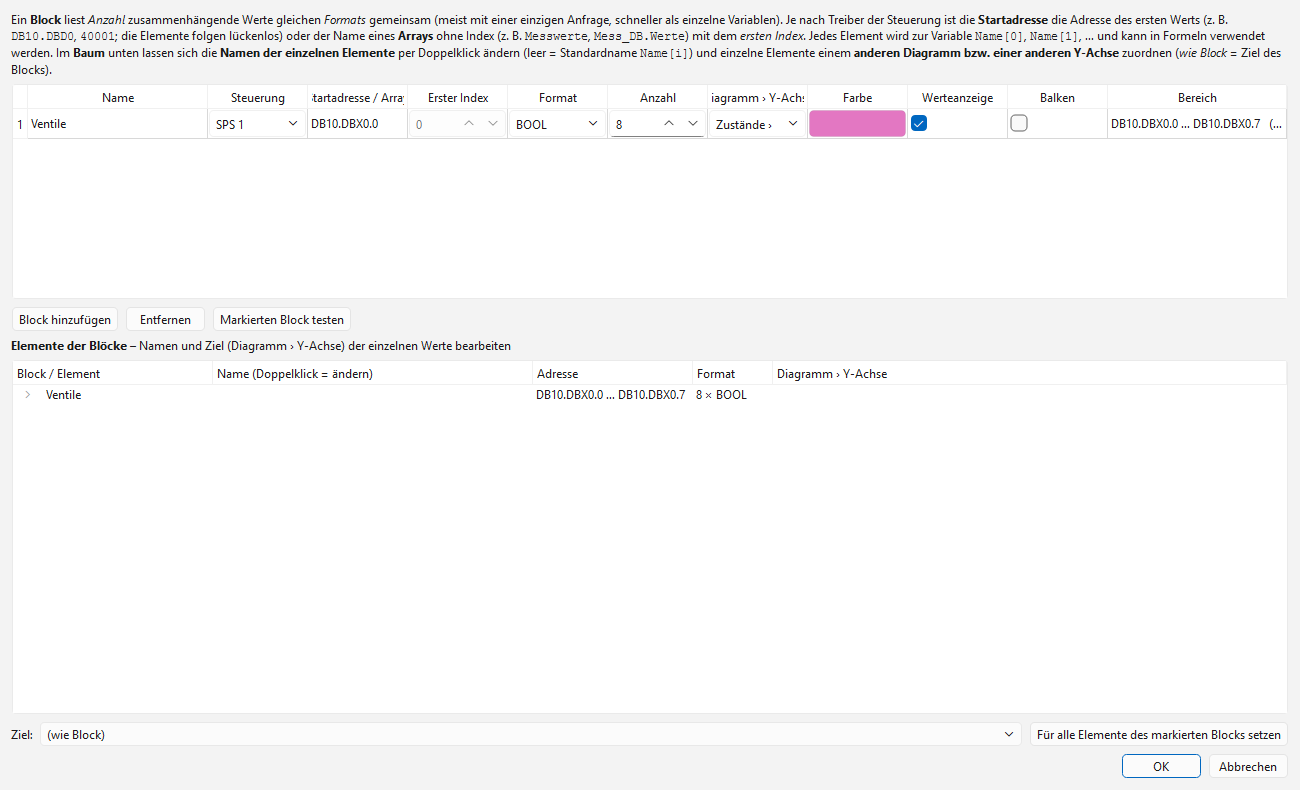
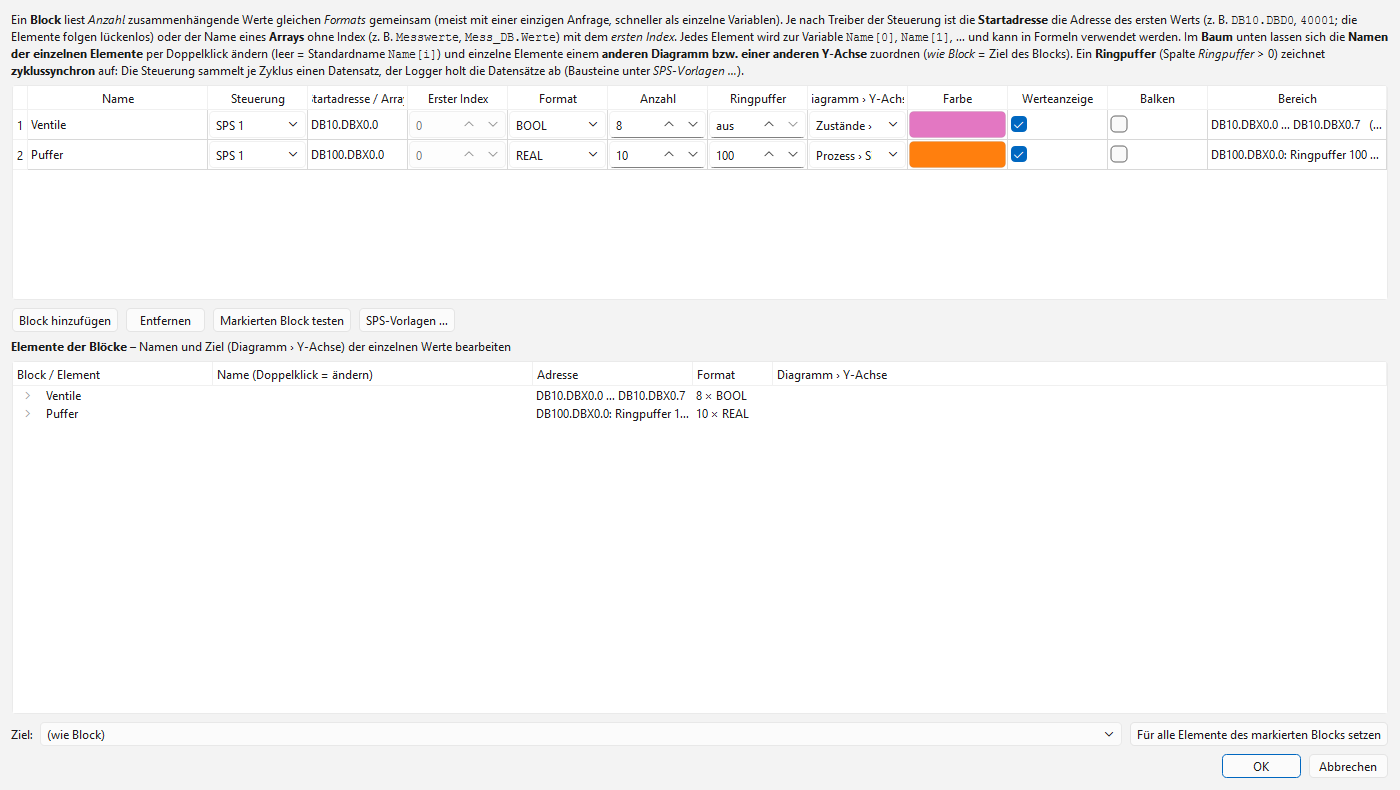
Prometheus: Übersicht erfasst auch die jüngsten Werte; Blockeditor-Bilder mit Ringpuffer
Die Abschnitte der Übersicht (query_range) enden jetzt eine Schrittweite hinter „jetzt“,
sonst fielen die jüngsten Werte aus der letzten Auswertung heraus.

Claude-Session: https://claude.ai/code/session_01Q6oQyvEyXL3m776U2nsG9c

diff --git a/src/plc_db.py b/src/plc_db.py
@@ -1458,8 +1458,10 @@ class PromReader(VmReader):
         span = self._retention_s() + 86400
         step = max(1, int(math.ceil(span / 2000)))
         q = f"sum by (variable) (count_over_time({self._sel(project)}[{step}s]))"
-        data = self._data("/api/v1/query_range", {"query": q, "start": f"{now - span:.3f}", "end": f"{now:.3f}",
-                                                  "step": f"{step}s"}) or {}
+        # Ausgewertet wird an den Zeitpunkten start + k·step: das Ende eine Schrittweite hinter „jetzt“ legen, damit
+        # auch die jüngsten Werte in einen Abschnitt fallen.
+        data = self._data("/api/v1/query_range", {"query": q, "start": f"{now - span:.3f}",
+                                                  "end": f"{now + step:.3f}", "step": f"{step}s"}) or {}
         out = []
         for res in data.get("result", []):
             name = res.get("metric", {}).get("variable")
